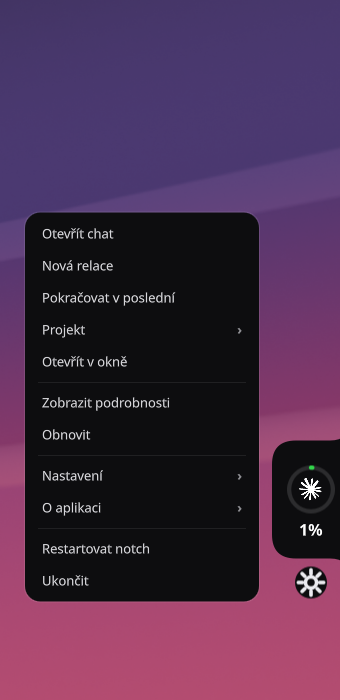
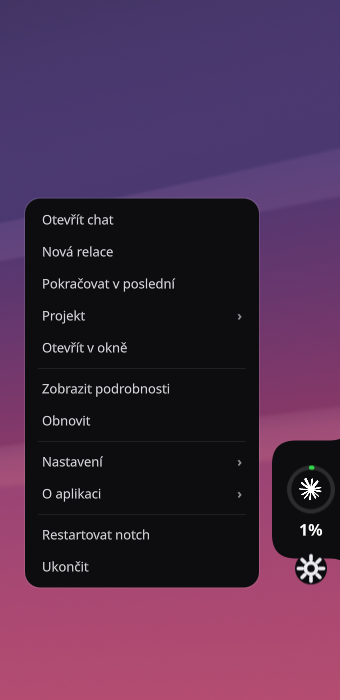
Orb tight under the bubble; menu closes only when nothing is hovered
- orb 10 px under the bubble instead of 24, arc starting right at its edge
- while the menu is open the input mask is one convex rectangle spanning
  menu, bubble/strip and orb, so no path between them leaves the window
- the menu (and pinned details) close when neither the main area, the orb
  nor the menu is hovered, after a 150 ms debounce — independent of which
  item currently holds the hover

Changed region(s): [[0.0588, 0.27, 0.7647, 0.87], [0.8529, 0.78, 0.9706, 0.87]]

diff --git a/claude-notch/notch.qml b/claude-notch/notch.qml
@@ -104,7 +104,10 @@ Window {
             r.push([W - hw, (H - hh) / 2, hw, hh])
         } else r.push([W - lay.sliver_hot, (H - sliverH - 28) / 2, lay.sliver_hot, sliverH + 28])
         if (orbVisible) r.push([orb.targetCx - 18, orb.targetCy - 18, 36, 36])
-        if (menuOpen) r.push([menu.x - 6, menu.y - 6, menu.width + 12, (orb.targetCy + 22) - menu.y + 6])   // down to the orb, no gap
+        if (menuOpen) {          // one convex region: menu + bubble/strip + orb, so no path between them leaves the window
+            var top = Math.min(menu.y - 6, r[0][1]), bottom = Math.max(orb.targetCy + 22, r[0][1] + r[0][3])
+            r = [[menu.x - 6, top, W - (menu.x - 6), bottom - top]]
+        }
         return r
     }
     onHotRectsChanged: bridge.applyMask(hotRects)
@@ -378,11 +381,12 @@ Window {
 
     // ── input over the shape ─────────────────────────────────────────
     MouseArea {
+        id: mainArea
         anchors.fill: parent
         hoverEnabled: true
         acceptedButtons: Qt.LeftButton
         onEntered: { if (!win.chat && !win.suppressHover && !win.menuOpen) win.hover = true; bridge.reload() }
-        onExited:  { win.hover = false; win.suppressHover = false; win.menuOpen = false; win.pinInfo = false }
+        onExited:  { win.hover = false; win.suppressHover = false }
         onPositionChanged: if (!win.chat && !win.suppressHover && !win.menuOpen) win.hover = true
         onClicked: {
             if (win.menuOpen) { win.menuOpen = false; return }
@@ -401,11 +405,11 @@ Window {
         readonly property real targetCx: win.chat ? win.width - win.stripW / 2
                                         : (win.showBubble ? win.width - win.bubbleW / 2 : win.width - 16)
         readonly property real targetCy: win.chat ? win.height - win.chatInset - 30
-                                        : (win.height + (win.showBubble ? win.bubbleH : win.sliverH)) / 2 + 24
+                                        : (win.height + (win.showBubble ? win.bubbleH : win.sliverH)) / 2 + 10
         // drawn position — follows the animated shape
         property real cx: win.chatVisual ? win.width - win.stripW / 2
                                          : (win.showBubble ? win.width - win.bubbleW / 2 : win.width - 16)
-        property real cy: win.chatVisual ? win.height - win.chatInset - 30 : (win.height + shape.sh) / 2 + 24
+        property real cy: win.chatVisual ? win.height - win.chatInset - 30 : (win.height + shape.sh) / 2 + 10
         Behavior on cx { NumberAnimation { duration: 300; easing.type: Easing.OutQuint } }
 
         x: cx - r - 4; y: cy - r - 4
@@ -437,9 +441,9 @@ Window {
                 } else {                                    // resting arc
                     ctx.lineCap = "round"
                     ctx.strokeStyle = "#ffffff"; ctx.globalAlpha = 0.28; ctx.lineWidth = 7
-                    ctx.beginPath(); ctx.arc(cx - 6, cy + 3, R - 1, -Math.PI * 0.5, Math.PI * 0.12); ctx.stroke()   // ╮ hook: in from the left, down at the edge
+                    ctx.beginPath(); ctx.arc(cx - 6, cy + 6, R - 1, -Math.PI * 0.5, Math.PI * 0.12); ctx.stroke()   // ╮ hook: in from the left, down at the edge
                     ctx.strokeStyle = pal.background; ctx.globalAlpha = win.stale ? 0.6 : 1; ctx.lineWidth = 4.2
-                    ctx.beginPath(); ctx.arc(cx - 6, cy + 3, R - 1, -Math.PI * 0.5, Math.PI * 0.12); ctx.stroke()   // ╮ hook: in from the left, down at the edge
+                    ctx.beginPath(); ctx.arc(cx - 6, cy + 6, R - 1, -Math.PI * 0.5, Math.PI * 0.12); ctx.stroke()   // ╮ hook: in from the left, down at the edge
                 }
             }
         }
@@ -452,6 +456,13 @@ Window {
             onTapped: win.menuOpen = !win.menuOpen
         }
     }
+
+    // The menu (and pinned details) close when nothing is under the pointer any
+    // more — the main area, the orb or the menu — after a short debounce that
+    // bridges the hand-over between them.
+    readonly property bool pointerInside: mainArea.containsMouse || orbHover.hovered || menuHover.hovered
+    onPointerInsideChanged: if (pointerInside) leaveTimer.stop(); else leaveTimer.restart()
+    Timer { id: leaveTimer; interval: 150; onTriggered: if (!win.pointerInside) { win.menuOpen = false; win.pinInfo = false } }
 
     // ── the menu ─────────────────────────────────────────────────────
     function menuItems(page) {
@@ -519,6 +530,7 @@ Window {
         transform: Translate { y: win.menuOpen ? 0 : 8
                                Behavior on y { NumberAnimation { duration: 160; easing.type: Easing.OutQuint } } }
         Behavior on opacity { NumberAnimation { duration: 120 } }
+        HoverHandler { id: menuHover }
 
         Column {
             id: menuCol
